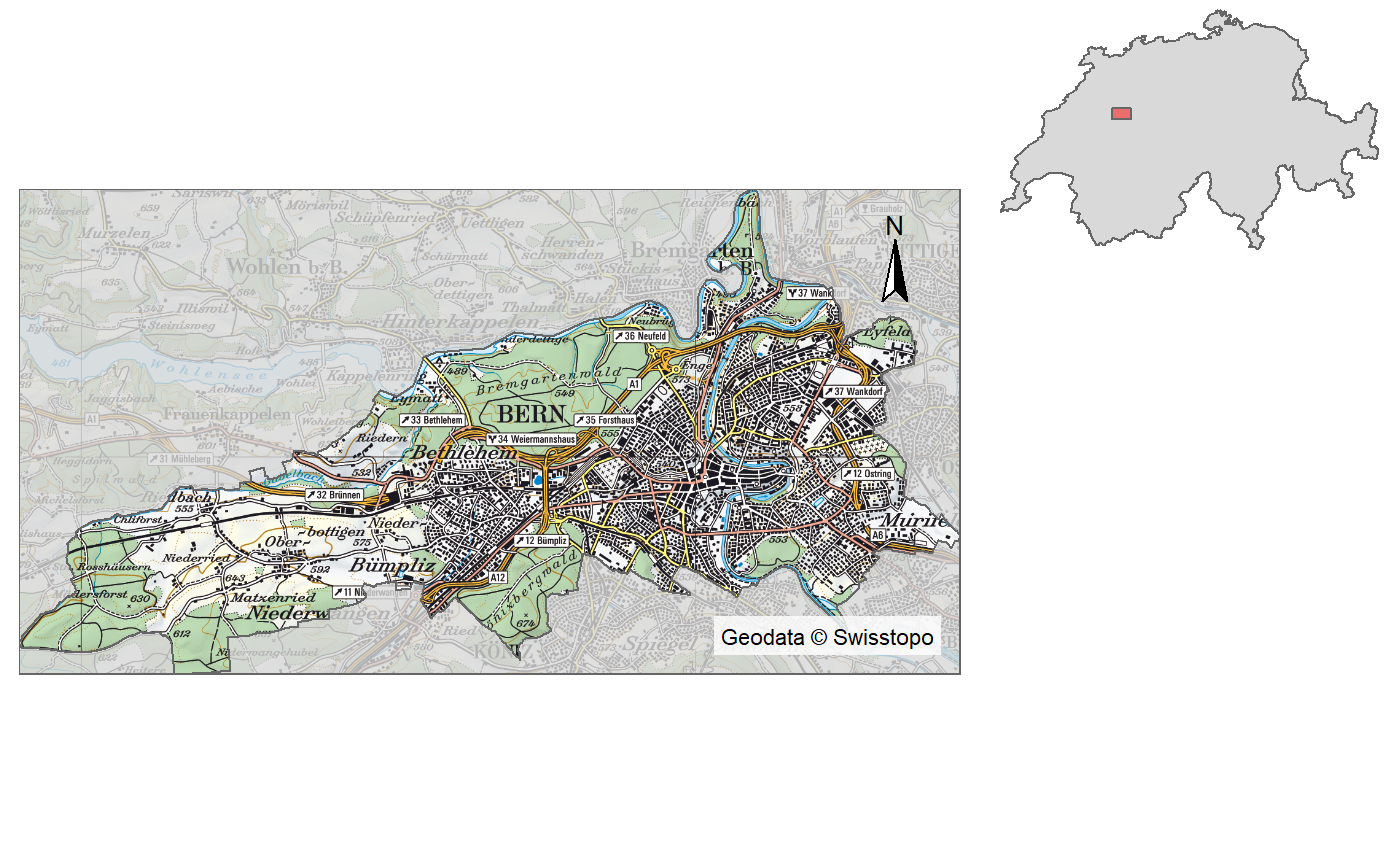
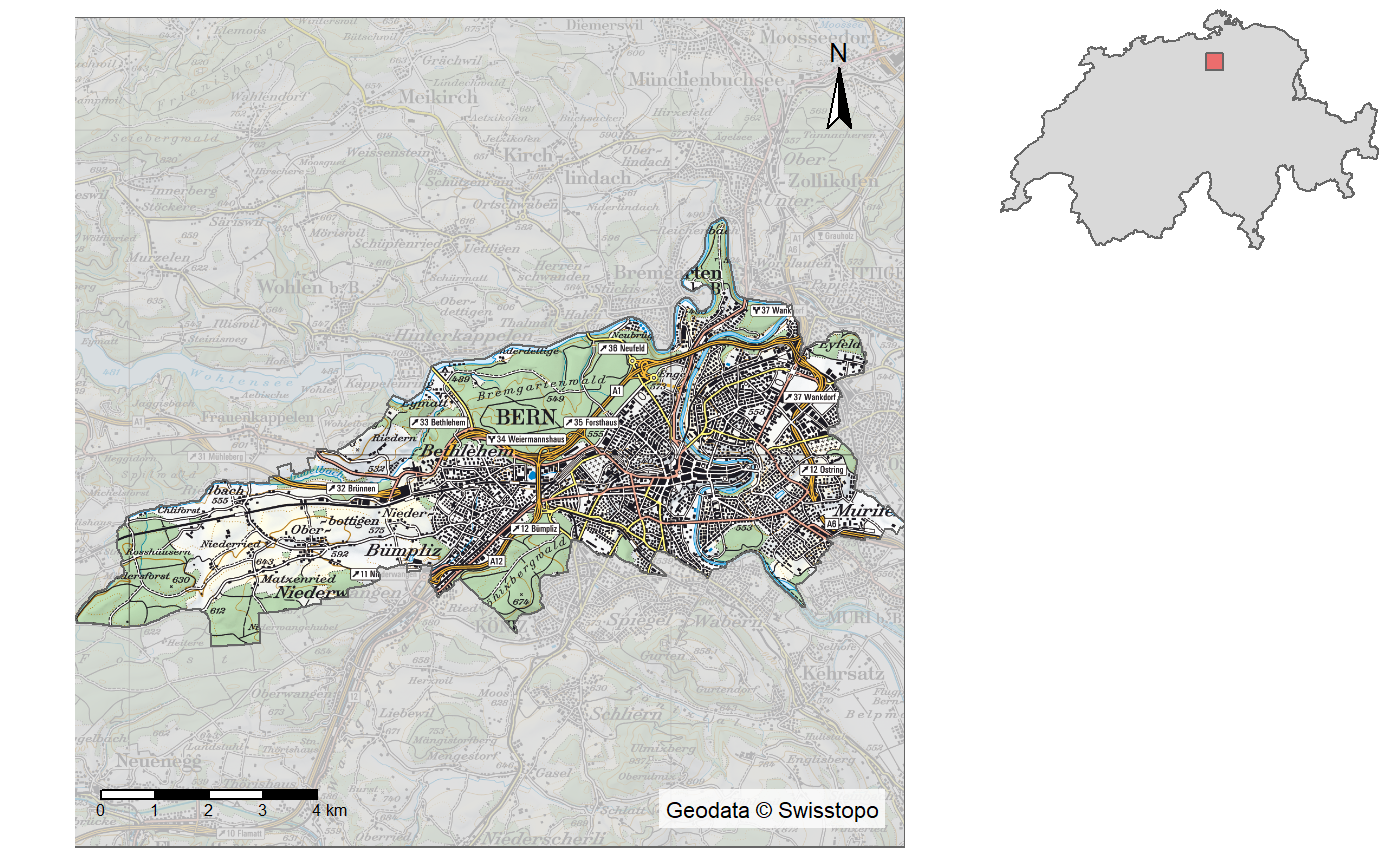
some minor mistakes

diff --git a/docs/articles/showcasing.html b/docs/articles/showcasing.html
@@ -116,12 +116,14 @@
 <a class="sourceLine" id="cb5-4" data-line-number="4">    <span class="dt">dichte =</span> EINWOHNERZ<span class="op">/</span>area_km2</a>
 <a class="sourceLine" id="cb5-5" data-line-number="5">    )</a></code></pre></div>
 <p>Create an cookiecutter shape for each feature.</p>
-<div class="sourceCode" id="cb6"><pre class="sourceCode r"><code class="sourceCode r"><a class="sourceLine" id="cb6-1" data-line-number="1">ext_inv &lt;-<span class="st"> </span>gemeinden_top_poly <span class="op">%&gt;%</span></a>
-<a class="sourceLine" id="cb6-2" data-line-number="2"><span class="st">  </span><span class="kw"><a href="../reference/get_extent.html">get_extent</a></span>(.,<span class="dt">x_add =</span> <span class="dv">0</span>,<span class="dt">y_add =</span> <span class="dv">0</span>,<span class="dt">method =</span> <span class="st">"bbox"</span>,<span class="dt">per_feature =</span> T) <span class="op">%&gt;%</span></a>
-<a class="sourceLine" id="cb6-3" data-line-number="3"><span class="st">  </span><span class="kw">st_geometry</span>() <span class="op">%&gt;%</span></a>
-<a class="sourceLine" id="cb6-4" data-line-number="4"><span class="st">  </span><span class="kw">map2</span>(<span class="kw">st_geometry</span>(gemeinden_top_poly),<span class="op">~</span><span class="kw">st_difference</span>(.x,.y)) <span class="op">%&gt;%</span></a>
-<a class="sourceLine" id="cb6-5" data-line-number="5"><span class="st">  </span><span class="kw">st_sfc</span>() <span class="op">%&gt;%</span></a>
-<a class="sourceLine" id="cb6-6" data-line-number="6"><span class="st">  </span><span class="kw">st_set_crs</span>(<span class="dv">2056</span>)</a></code></pre></div>
+<div class="sourceCode" id="cb6"><pre class="sourceCode r"><code class="sourceCode r"><a class="sourceLine" id="cb6-1" data-line-number="1">exts &lt;-<span class="st"> </span>gemeinden_top_poly <span class="op">%&gt;%</span></a>
+<a class="sourceLine" id="cb6-2" data-line-number="2"><span class="st">  </span><span class="kw"><a href="../reference/get_extent.html">get_extent</a></span>(.,<span class="dt">x_add =</span> <span class="dv">0</span>,<span class="dt">y_add =</span> <span class="dv">0</span>,<span class="dt">method =</span> <span class="st">"bbox"</span>,<span class="dt">per_feature =</span> T,<span class="dt">asp =</span> <span class="dv">1</span>)</a>
+<a class="sourceLine" id="cb6-3" data-line-number="3"></a>
+<a class="sourceLine" id="cb6-4" data-line-number="4">ext_inv &lt;-<span class="st"> </span>exts <span class="op">%&gt;%</span></a>
+<a class="sourceLine" id="cb6-5" data-line-number="5"><span class="st">  </span><span class="kw">st_geometry</span>() <span class="op">%&gt;%</span></a>
+<a class="sourceLine" id="cb6-6" data-line-number="6"><span class="st">  </span><span class="kw">map2</span>(<span class="kw">st_geometry</span>(gemeinden_top_poly),<span class="op">~</span><span class="kw">st_difference</span>(.x,.y)) <span class="op">%&gt;%</span></a>
+<a class="sourceLine" id="cb6-7" data-line-number="7"><span class="st">  </span><span class="kw">st_sfc</span>() <span class="op">%&gt;%</span></a>
+<a class="sourceLine" id="cb6-8" data-line-number="8"><span class="st">  </span><span class="kw">st_set_crs</span>(<span class="dv">2056</span>)</a></code></pre></div>
 </div>
 <div id="prepare-figure-captions" class="section level2">
 <h2 class="hasAnchor">
@@ -147,21 +149,22 @@
 <a class="sourceLine" id="cb8-8" data-line-number="8"><span class="cf">for</span>(i <span class="cf">in</span> <span class="dv">1</span><span class="op">:</span><span class="kw"><a href="https://www.rdocumentation.org/packages/base/topics/nrow">nrow</a></span>(gemeinden_top_poly)){</a>
 <a class="sourceLine" id="cb8-9" data-line-number="9">  extent_indicator &lt;-<span class="st"> </span><span class="kw">tm_shape</span>(landesgebiet) <span class="op">+</span><span class="st"> </span></a>
 <a class="sourceLine" id="cb8-10" data-line-number="10"><span class="st">    </span><span class="kw">tm_polygons</span>() <span class="op">+</span><span class="st"> </span></a>
-<a class="sourceLine" id="cb8-11" data-line-number="11"><span class="st">    </span><span class="kw">tm_shape</span>(<span class="kw"><a href="../reference/get_extent.html">get_extent</a></span>(gemeinden_top_poly[i,],<span class="dt">x_add =</span> <span class="dv">1000</span>,<span class="dt">y_add =</span> <span class="dv">1000</span>,<span class="dt">method =</span> <span class="st">"bbox"</span>)) <span class="op">+</span><span class="st"> </span></a>
+<a class="sourceLine" id="cb8-11" data-line-number="11"><span class="st">    </span><span class="kw">tm_shape</span>(<span class="kw"><a href="../reference/get_extent.html">get_extent</a></span>(exts[<span class="dv">1</span>,],<span class="dt">x_add =</span> <span class="dv">1000</span>,<span class="dt">y_add =</span> <span class="dv">1000</span>,<span class="dt">method =</span> <span class="st">"bbox"</span>)) <span class="op">+</span><span class="st"> </span></a>
 <a class="sourceLine" id="cb8-12" data-line-number="12"><span class="st">    </span><span class="kw">tm_polygons</span>(<span class="dt">col =</span> <span class="st">"red"</span>, <span class="dt">alpha =</span> <span class="fl">0.5</span>) <span class="op">+</span></a>
 <a class="sourceLine" id="cb8-13" data-line-number="13"><span class="st">    </span><span class="kw">tm_layout</span>(<span class="dt">frame =</span> F) <span class="op">+</span></a>
 <a class="sourceLine" id="cb8-14" data-line-number="14"><span class="st">    </span><span class="kw">tm_view</span>(<span class="dt">alpha =</span> <span class="dv">0</span>)</a>
-<a class="sourceLine" id="cb8-15" data-line-number="15">  mainmap &lt;-<span class="st"> </span><span class="kw">tm_shape</span>(<span class="kw"><a href="../reference/get_raster.html">get_raster</a></span>(gemeinden_top_poly[i,],<span class="dv">100</span>,<span class="dt">method =</span> <span class="st">"bbox"</span>)) <span class="op">+</span><span class="st"> </span></a>
+<a class="sourceLine" id="cb8-15" data-line-number="15">  mainmap &lt;-<span class="st"> </span><span class="kw">tm_shape</span>(<span class="kw"><a href="../reference/get_raster.html">get_raster</a></span>(exts[i,],<span class="dv">100</span>,<span class="dt">method =</span> <span class="st">"bbox"</span>)) <span class="op">+</span><span class="st"> </span></a>
 <a class="sourceLine" id="cb8-16" data-line-number="16"><span class="st">    </span><span class="kw">tm_rgb</span>() <span class="op">+</span><span class="st"> </span></a>
 <a class="sourceLine" id="cb8-17" data-line-number="17"><span class="st">    </span><span class="kw">tm_shape</span>(ext_inv[i])<span class="op">+</span><span class="st"> </span></a>
 <a class="sourceLine" id="cb8-18" data-line-number="18"><span class="st">    </span><span class="kw">tm_polygons</span>(<span class="dt">alpha =</span> <span class="fl">0.8</span>,<span class="dt">fill =</span> <span class="st">"white"</span>) <span class="op">+</span></a>
-<a class="sourceLine" id="cb8-19" data-line-number="19"><span class="st">    </span><span class="kw">tm_credits</span>(credits,<span class="dt">bg.color =</span> <span class="st">"white"</span>,<span class="dt">bg.alpha =</span> <span class="fl">0.8</span>) <span class="op">+</span></a>
-<a class="sourceLine" id="cb8-20" data-line-number="20"><span class="st">    </span><span class="kw">tm_compass</span>(<span class="dt">position =</span> <span class="kw"><a href="https://www.rdocumentation.org/packages/base/topics/c">c</a></span>(<span class="st">"right"</span>,<span class="st">"top"</span>)) <span class="op">+</span></a>
-<a class="sourceLine" id="cb8-21" data-line-number="21"><span class="st">    </span><span class="kw">tm_layout</span>(<span class="dt">frame =</span> F)</a>
-<a class="sourceLine" id="cb8-22" data-line-number="22">  <span class="kw">grid.newpage</span>()</a>
-<a class="sourceLine" id="cb8-23" data-line-number="23">  <span class="kw"><a href="https://www.rdocumentation.org/packages/base/topics/print">print</a></span>(mainmap, <span class="dt">vp=</span><span class="kw">viewport</span>(<span class="dv">0</span>,<span class="dv">0</span>,<span class="fl">0.7</span>,<span class="dv">1</span>,<span class="dt">just =</span> <span class="kw"><a href="https://www.rdocumentation.org/packages/base/topics/c">c</a></span>(<span class="st">"left"</span>,<span class="st">"bottom"</span>)))</a>
-<a class="sourceLine" id="cb8-24" data-line-number="24">  <span class="kw"><a href="https://www.rdocumentation.org/packages/base/topics/print">print</a></span>(extent_indicator, <span class="dt">vp=</span><span class="kw">viewport</span>(<span class="dv">1</span>,<span class="dv">1</span>,<span class="fl">0.3</span>,<span class="fl">0.3</span>,<span class="dt">just =</span> <span class="kw"><a href="https://www.rdocumentation.org/packages/base/topics/c">c</a></span>(<span class="st">"right"</span>,<span class="st">"top"</span>)))</a>
-<a class="sourceLine" id="cb8-25" data-line-number="25">}</a></code></pre></div>
+<a class="sourceLine" id="cb8-19" data-line-number="19"><span class="st">    </span><span class="kw">tm_scale_bar</span>(<span class="dt">position =</span> <span class="kw"><a href="https://www.rdocumentation.org/packages/base/topics/c">c</a></span>(<span class="st">"left"</span>,<span class="st">"bottom"</span>)) <span class="op">+</span></a>
+<a class="sourceLine" id="cb8-20" data-line-number="20"><span class="st">    </span><span class="kw">tm_credits</span>(credits,<span class="dt">bg.color =</span> <span class="st">"white"</span>,<span class="dt">bg.alpha =</span> <span class="fl">0.8</span>) <span class="op">+</span></a>
+<a class="sourceLine" id="cb8-21" data-line-number="21"><span class="st">    </span><span class="kw">tm_compass</span>(<span class="dt">position =</span> <span class="kw"><a href="https://www.rdocumentation.org/packages/base/topics/c">c</a></span>(<span class="st">"right"</span>,<span class="st">"top"</span>)) <span class="op">+</span></a>
+<a class="sourceLine" id="cb8-22" data-line-number="22"><span class="st">    </span><span class="kw">tm_layout</span>(<span class="dt">frame =</span> F) </a>
+<a class="sourceLine" id="cb8-23" data-line-number="23">  <span class="kw">grid.newpage</span>()</a>
+<a class="sourceLine" id="cb8-24" data-line-number="24">  <span class="kw"><a href="https://www.rdocumentation.org/packages/base/topics/print">print</a></span>(mainmap, <span class="dt">vp=</span><span class="kw">viewport</span>(<span class="dv">0</span>,<span class="dv">0</span>,<span class="fl">0.7</span>,<span class="dv">1</span>,<span class="dt">just =</span> <span class="kw"><a href="https://www.rdocumentation.org/packages/base/topics/c">c</a></span>(<span class="st">"left"</span>,<span class="st">"bottom"</span>)))</a>
+<a class="sourceLine" id="cb8-25" data-line-number="25">  <span class="kw"><a href="https://www.rdocumentation.org/packages/base/topics/print">print</a></span>(extent_indicator, <span class="dt">vp=</span><span class="kw">viewport</span>(<span class="dv">1</span>,<span class="dv">1</span>,<span class="fl">0.3</span>,<span class="fl">0.3</span>,<span class="dt">just =</span> <span class="kw"><a href="https://www.rdocumentation.org/packages/base/topics/c">c</a></span>(<span class="st">"right"</span>,<span class="st">"top"</span>)))</a>
+<a class="sourceLine" id="cb8-26" data-line-number="26">}</a></code></pre></div>
 <div class="figure">
 <img src="showcasing_files/figure-html/unnamed-chunk-6-1.png" alt="Die Gemeindegrenze von Zürich umfasst ein Fläche von 91 km^2^. In diesem Gebiet leben 402762 Einwohner, was eine Einwohnerdichte von 4425
 Menschen pro km^2^ bedeutet." width="700"><p class="caption">
